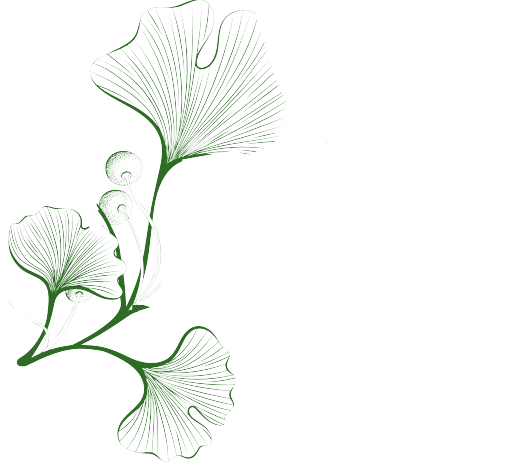
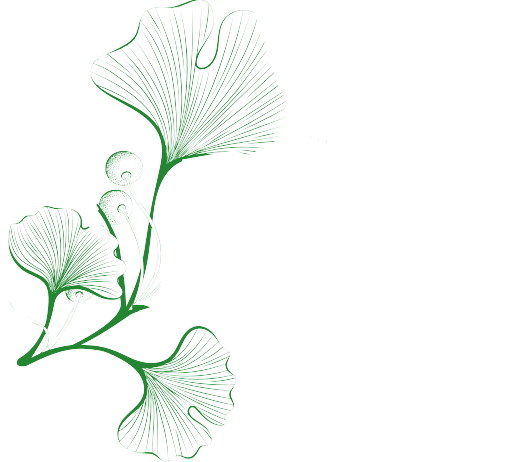
Finale cover: cover.webp, covergroen #248632, ginkgo in covergroen, deelbeeld og.jpg

diff --git a/index.html b/index.html
@@ -7,6 +7,15 @@
 <meta name="color-scheme" content="light only">
 <meta name="supported-color-schemes" content="light">
 <title>Het goede — een nieuw verhaal voor mens, planeet en toekomstige generaties</title>
+<meta name="description" content="Een nieuw verhaal voor mens, planeet en toekomstige generaties. Het boek van Etienne Flor&eacute; verschijnt op 26 november 2026.">
+<meta property="og:type" content="website">
+<meta property="og:url" content="https://hetgoede.org/">
+<meta property="og:title" content="Het goede">
+<meta property="og:description" content="Een nieuw verhaal voor mens, planeet en toekomstige generaties. Verschijnt op 26 november 2026.">
+<meta property="og:image" content="https://hetgoede.org/og.jpg">
+<meta property="og:image:width" content="1200">
+<meta property="og:image:height" content="630">
+<meta name="twitter:card" content="summary_large_image">
 <style>
   @font-face{font-family:"Avenir";src:url(/avenir-light.woff2) format("woff2");
              font-weight:300;font-style:normal;font-display:swap}
@@ -16,7 +25,7 @@
              font-weight:700 800;font-style:normal;font-display:swap}
 
   :root{color-scheme:light only;--ink:#15130F;--text:#46443E;--taupe:#8C857A;
-        --line:rgba(21,19,15,.09);--groen:#228B22}
+        --line:rgba(21,19,15,.09);--groen:#248632}
   *{box-sizing:border-box;margin:0;padding:0}
   html{scroll-behavior:smooth}
   #kies{scroll-margin-top:28vh}
@@ -143,7 +152,7 @@
     html,body{background:#fff !important;color:#46443E !important}
     h1,h2,.statement p,.topbar a,input,select{color:#15130F !important}
     .eyebrow,.who,.fine,.src,.frag,footer .c,.topbar .uit,.mark{color:#8C857A !important}
-    .btn-primary,button{background:#228B22 !important;color:#fff !important}
+    .btn-primary,button{background:#248632 !important;color:#fff !important}
     .btn-plain{color:#15130F !important}
     .topbar{background:rgba(255,255,255,.92) !important}
   }
@@ -245,7 +254,7 @@
   <div class="wrap reveal">
     <h2>Het boek</h2>
     <p class="citaat">Het goede is niet na&iuml;ef. Het is alleen zelden op grote schaal geprobeerd.</p>
-    <img class="boekfoto" src="/cover.png" alt="Cover van het boek het goede">
+    <img class="boekfoto" src="/cover.webp" alt="Cover van het boek het goede">
     <p>Een leven lang ondernemen, samenleven en twijfelen bracht Etienne bij &eacute;&eacute;n overtuiging. Het goede zit in ieder van ons.</p>
     <p>Hij begint bij de oerknal en eindigt bij een meisje van twaalf dat vraagt of er altijd hoop is. Daartussen liggen de grote vragen van het menszijn.</p>
     <p>Dit boek heeft niet alle antwoorden. Het is wel een aanzet. Een holistisch startpunt om te vertrekken, op weg naar een visie.</p>
@@ -377,7 +386,7 @@
 
 <footer>
   <div class="wrap">
-    <div class="mark" aria-label="Untold en het goede"><svg class="ap" viewBox="0 0 24 24" fill="none" stroke="currentColor" stroke-width="4.38" stroke-linecap="butt" aria-hidden="true"><path d="M12 2.19 A9.81 9.81 0 0 0 2.19 12"/><path d="M12 21.81 A9.81 9.81 0 0 0 21.81 12"/></svg><span>&times;</span><svg class="gk" viewBox="0 0 1100 962" aria-hidden="true"><use href="#gk" fill="#2E6C25"/></svg></div>
+    <div class="mark" aria-label="Untold en het goede"><svg class="ap" viewBox="0 0 24 24" fill="none" stroke="currentColor" stroke-width="4.38" stroke-linecap="butt" aria-hidden="true"><path d="M12 2.19 A9.81 9.81 0 0 0 2.19 12"/><path d="M12 21.81 A9.81 9.81 0 0 0 21.81 12"/></svg><span>&times;</span><svg class="gk" viewBox="0 0 1100 962" aria-hidden="true"><use href="#gk" fill="#248632"/></svg></div>
     <img src="/untold-wordmerk-2.png" alt="Untold">
     <div class="c">Het goede is een uitgave van Untold: Books That Matter<br>untold-books.com</div>
   </div>

diff --git a/26november.html b/26november.html
@@ -7,6 +7,15 @@
 <meta name="color-scheme" content="light only">
 <meta name="supported-color-schemes" content="light">
 <title>Lancering het goede · 26 november 2026</title>
+<meta name="description" content="Donderdag 26 november 2026: voorstelling van het boek Het goede in Lochristi. Bestel nu aan de early-birdprijs van 18 euro, verzending inbegrepen.">
+<meta property="og:type" content="website">
+<meta property="og:url" content="https://hetgoede.org/26november">
+<meta property="og:title" content="Lancering het goede · 26 november 2026">
+<meta property="og:description" content="Voorstelling in Lochristi. Bestel nu aan de early-birdprijs van 18 euro, verzending inbegrepen.">
+<meta property="og:image" content="https://hetgoede.org/og.jpg">
+<meta property="og:image:width" content="1200">
+<meta property="og:image:height" content="630">
+<meta name="twitter:card" content="summary_large_image">
 <style>
   @font-face{font-family:"Avenir";src:url(/avenir-light.woff2) format("woff2");
              font-weight:300;font-style:normal;font-display:swap}
@@ -16,7 +25,7 @@
              font-weight:700 800;font-style:normal;font-display:swap}
 
   :root{color-scheme:light only;--ink:#15130F;--text:#46443E;--taupe:#8C857A;
-        --line:rgba(21,19,15,.09);--groen:#228B22}
+        --line:rgba(21,19,15,.09);--groen:#248632}
   *{box-sizing:border-box;margin:0;padding:0}
   html{scroll-behavior:smooth}
   html,body{background:#fff}
@@ -142,7 +151,7 @@
     html,body{background:#fff !important;color:#46443E !important}
     h1,h2,.statement p,.topbar a,input,select{color:#15130F !important}
     .eyebrow,.who,.fine,.src,.frag,footer .c,.topbar .uit,.mark{color:#8C857A !important}
-    .btn-primary,button{background:#228B22 !important;color:#fff !important}
+    .btn-primary,button{background:#248632 !important;color:#fff !important}
     .btn-plain{color:#15130F !important}
     .topbar{background:rgba(255,255,255,.92) !important}
   }
@@ -217,7 +226,7 @@
 
 <header>
   <div class="wrap reveal">
-    <img class="cover-klein" src="/cover.png" alt="Cover van het boek het goede">
+    <img class="cover-klein" src="/cover.webp" alt="Cover van het boek het goede">
     <h1 style="font-size:44px;margin-top:34px">Lancering<br>het goede</h1>
     <p class="lead">Donderdag 26 november 2026 &middot; Lochristi &middot; gratis</p>
     <div class="actions"><a class="btn btn-primary" href="#inschrijven">Ik kom, gratis</a></div>
@@ -300,7 +309,7 @@
 
 <footer>
   <div class="wrap">
-    <div class="mark" aria-label="Untold en het goede"><svg class="ap" viewBox="0 0 24 24" fill="none" stroke="currentColor" stroke-width="4.38" stroke-linecap="butt" aria-hidden="true"><path d="M12 2.19 A9.81 9.81 0 0 0 2.19 12"/><path d="M12 21.81 A9.81 9.81 0 0 0 21.81 12"/></svg><span>&times;</span><svg class="gk" viewBox="0 0 1100 962" aria-hidden="true"><use href="#gk" fill="#2E6C25"/></svg></div>
+    <div class="mark" aria-label="Untold en het goede"><svg class="ap" viewBox="0 0 24 24" fill="none" stroke="currentColor" stroke-width="4.38" stroke-linecap="butt" aria-hidden="true"><path d="M12 2.19 A9.81 9.81 0 0 0 2.19 12"/><path d="M12 21.81 A9.81 9.81 0 0 0 21.81 12"/></svg><span>&times;</span><svg class="gk" viewBox="0 0 1100 962" aria-hidden="true"><use href="#gk" fill="#248632"/></svg></div>
     <img src="/untold-wordmerk-2.png" alt="Untold">
     <div class="c">Het goede is een uitgave van Untold: Books That Matter<br>untold-books.com</div>
   </div>

diff --git a/meta.js b/meta.js
@@ -37,7 +37,7 @@
       "font-size:14px;line-height:1.6;color:#46443E;text-align:left}" +
       "#hg-cookies .knoppen{display:flex;gap:12px;align-items:center;margin-top:14px;flex-wrap:wrap}" +
       "#hg-cookies button{width:auto;padding:11px 22px;font-size:14px;font-family:inherit;cursor:pointer;border:0}" +
-      "#hg-cookies .ja{background:#228B22 !important;color:#fff !important}" +
+      "#hg-cookies .ja{background:#248632 !important;color:#fff !important}" +
       "#hg-cookies .nee{background:none !important;color:#15130F !important;border-bottom:1px solid rgba(21,19,15,.2);padding:11px 2px}" +
       "#hg-cookies a{color:#15130F;margin-left:auto;font-size:13px}";
     document.head.appendChild(css);
